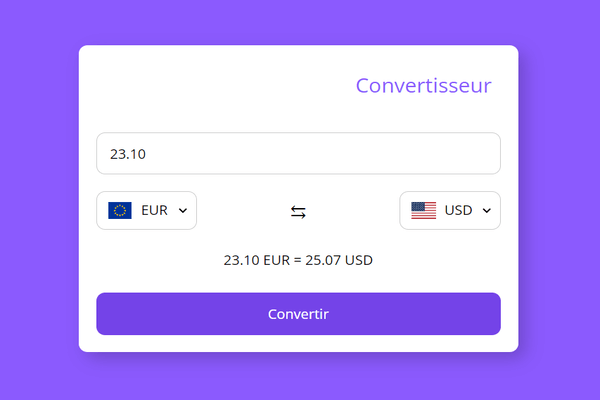
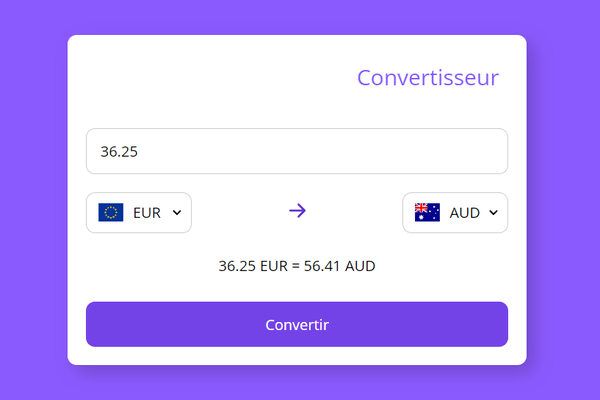
Improved code structure

Changed region(s): [[0.09, 0.09, 0.9, 0.93], [0.36, 0.63, 0.63, 0.69], [0.48, 0.51, 0.51, 0.54]]

diff --git a/src/src/assets/css/style.css b/src/src/assets/css/style.css
@@ -1,1 +1,1 @@
-@font-face{font-family:"OpenSans";font-style:normal;font-weight:400;font-display:swap;src:url("../fonts/OpenSans.woff2") format("woff2")}@font-face{font-family:"OpenSans";font-style:normal;font-weight:700;font-display:swap;src:url("../fonts/OpenSans-700.woff2") format("woff2")}@font-face{font-family:"OpenSans";font-style:italic;font-weight:400;font-display:swap;src:url("../fonts/OpenSans-italic.woff2") format("woff2")}html{background:#8b5afe;-webkit-tap-highlight-color:rgba(0,0,0,0);-webkit-user-select:none;user-select:none}*{font-family:"OpenSans";box-sizing:border-box}body{margin:0 1rem;display:flex;align-items:center;justify-content:center;min-height:100vh}.wrapper{margin:1rem 0;padding:20px;width:500px;max-width:95vw;background:#fff;border-radius:10px;text-align:center;box-shadow:8px 8px 20px rgba(0,0,0,.2)}header{font-size:1.5rem;padding:10px;text-align:right;color:#8b5afe}section{margin:30px 0 20px 0}section input{height:50px;padding:0 15px;border:1px solid #ccc}input,select{font-size:1rem;width:100%;border-radius:10px;border:none}input:focus,select:focus{outline:2px solid #8b5afe}.drop-list{display:flex;margin-top:20px;align-items:center;justify-content:space-between}.select-box{display:flex;width:115px;height:45px;border-radius:10px;align-items:center;justify-content:center;border:1px solid #ccc}.flag{width:30px;height:20px}.icon{font-size:1.4rem}select{width:auto;background:none;margin:0 -5px 0 5px}#result{min-height:25px;margin:25px 0}input[type=submit]{height:50px;color:#fff;cursor:pointer;border:none;background:#7443e8;transition:.2s}input[type=submit]:hover{background:#5f32ca}input[type=submit]:disabled{color:#fff;background:#4e4e4e}/*# sourceMappingURL=style.css.map */
+@font-face{font-family:"OpenSans";font-style:normal;font-weight:400;font-display:swap;src:url("../fonts/OpenSans.woff2") format("woff2")}@font-face{font-family:"OpenSans";font-style:normal;font-weight:700;font-display:swap;src:url("../fonts/OpenSans-700.woff2") format("woff2")}@font-face{font-family:"OpenSans";font-style:italic;font-weight:400;font-display:swap;src:url("../fonts/OpenSans-italic.woff2") format("woff2")}html{background:#8b5afe;-webkit-tap-highlight-color:rgba(0,0,0,0);-webkit-user-select:none;user-select:none}*{font-family:"OpenSans";box-sizing:border-box}body{margin:0 1rem;display:flex;align-items:center;justify-content:center;min-height:100vh}.wrapper{margin:1rem 0;padding:20px;width:500px;max-width:95vw;background:#fff;border-radius:10px;text-align:center;box-shadow:8px 8px 20px rgba(0,0,0,.2)}header{font-size:1.5rem;padding:10px;text-align:right;color:#8b5afe}section{margin:30px 0 20px 0}section input{height:50px;padding:0 15px;border:1px solid #ccc}input,select{font-size:1rem;width:100%;border-radius:10px;border:none}input:focus,select:focus{outline:2px solid #8b5afe}.drop-list{display:flex;margin-top:20px;align-items:center;justify-content:space-between}.select-box{display:flex;width:115px;height:45px;border-radius:10px;align-items:center;justify-content:center;border:1px solid #ccc}.flag{width:30px;height:20px}.icon{color:#5f32ca;font-size:1.4rem}select{width:auto;background:none;margin:0 -5px 0 5px}#result{min-height:25px;margin:25px 0}input[type=submit]{height:50px;color:#fff;cursor:pointer;border:none;background:#7443e8;transition:.2s}input[type=submit]:hover{background:#5f32ca}input[type=submit]:disabled{color:#fff;background:#4e4e4e}/*# sourceMappingURL=style.css.map */

diff --git a/src/public/index.html b/src/public/index.html
@@ -1,12 +1,12 @@
 <!DOCTYPE html>
 <html lang="fr">
   <head>
+    <meta charset="utf-8">
     <title>Convertisseur &#8211; Léo SEGUIN</title>
-    <meta charset="utf-8" />
-    <meta name="theme-color" content="#8b5afe" />
-    <meta name="robots" content="noindex, nofollow" />
-    <meta name="viewport" content="width=device-width, initial-scale=1" />
-    <meta name="description" content="Convertisseur des devises utilisées dans le monde entier." />
+    <meta name="theme-color" content="#8b5afe">
+    <meta name="robots" content="noindex, nofollow">
+    <meta name="viewport" content="width=device-width, initial-scale=1">
+    <meta name="description" content="Convertisseur des devises utilisées dans le monde entier.">
   </head>
   <body>
     <noscript>Vous devez activer JavaScript pour utiliser ce site.</noscript>

diff --git a/src/src/components/SelectComponent.js b/src/src/components/SelectComponent.js
@@ -1,4 +1,5 @@
 import React, { useEffect } from "react";
+import { HiArrowRight } from 'react-icons/hi';
 
 const country_list = {
   AED: "AE",
@@ -181,7 +182,9 @@ const SelectComponent = ({ selected }) => {
           </select>
         </div>
       </div>
-      <div className="icon">&#8646;</div>
+      <div className="icon">
+        <HiArrowRight />
+      </div>
       <div className="to">
         <div className="select-box">
           <img src="https://flagicons.lipis.dev/flags/4x3/us.svg" alt="Pays" className="flag" />

diff --git a/src/src/assets/sass/style.scss b/src/src/assets/sass/style.scss
@@ -105,6 +105,7 @@ select {
 }
 
 .icon {
+	color: #5f32ca;
 	font-size: 1.4rem;
 }
 
